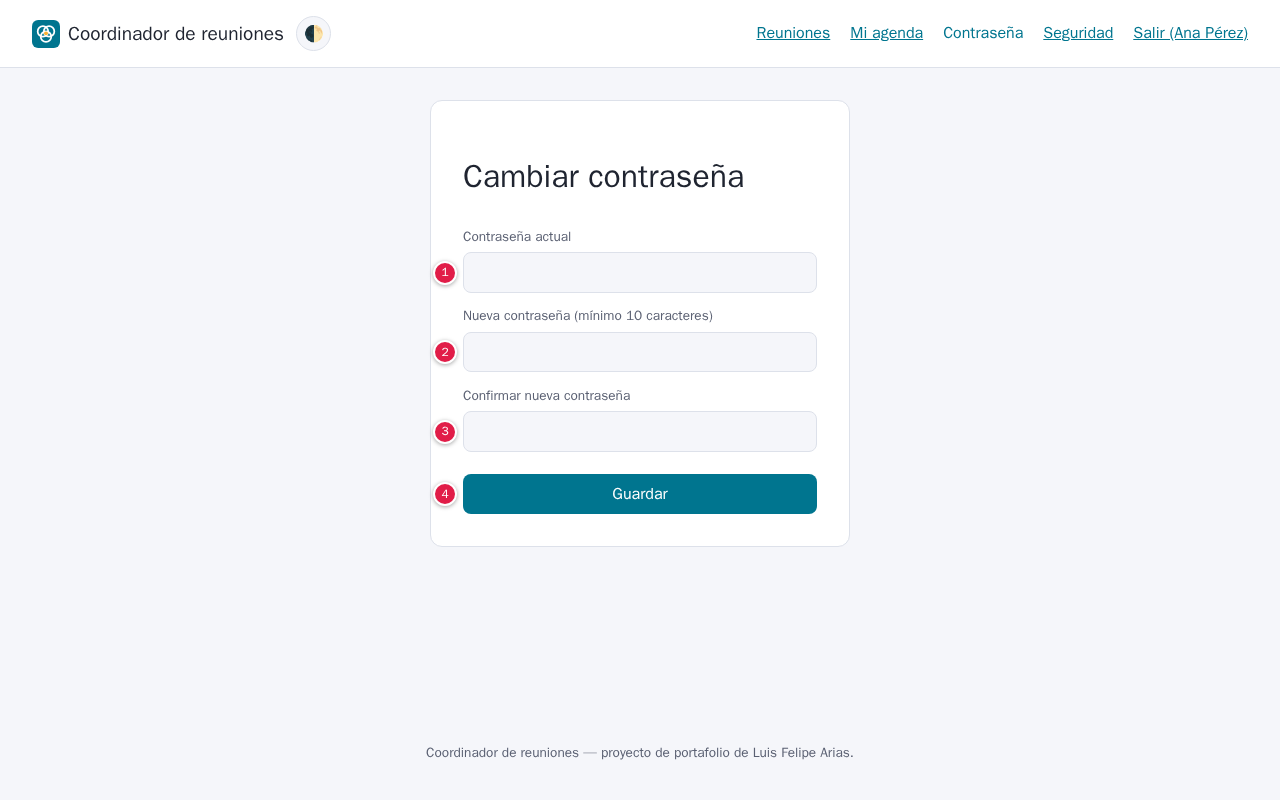
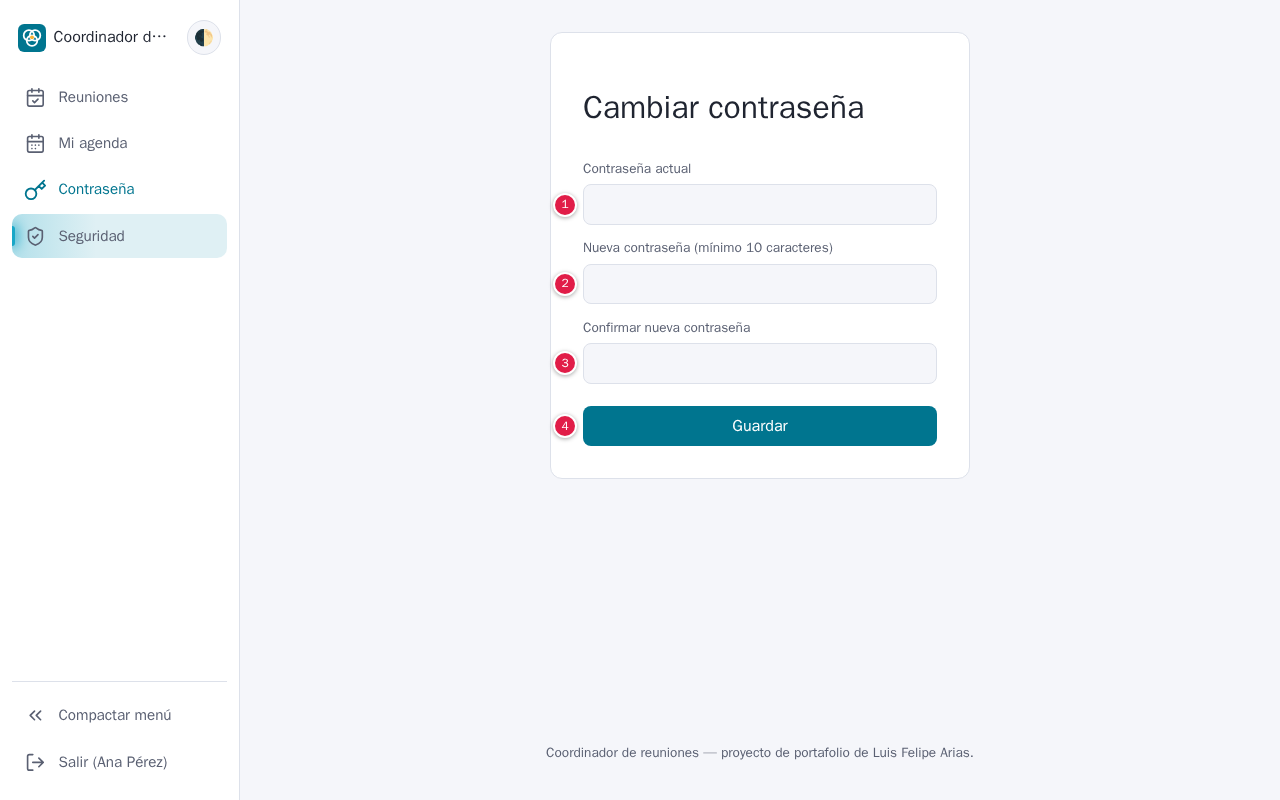
docs(manual): capturas nuevas de producción, casillas del código, menú, instalación, sin conexión y 404 [skip ci]

diff --git a/docs/MANUAL.md b/docs/MANUAL.md
@@ -115,7 +115,11 @@ cuenta) eliges cómo recibirlo:
 | **App autenticadora** (recomendado) | Escaneas un código QR con Google Authenticator, Microsoft Authenticator u otra app; desde ese momento la app muestra un código nuevo cada 30 segundos, incluso sin internet. Si no puedes escanear, escribe la clave que aparece bajo el QR. |
 | **Código por correo** | Cada vez que ingresas te llega un código de 6 dígitos que vence en 10 minutos y sirve una sola vez. |
 
-Confirma el método escribiendo el primer código. Desde **Seguridad** (menú superior) puedes
+Cada dígito ocupa su propia casilla. Bajo las casillas, un círculo muestra cuándo tu app muestra un
+código nuevo (o cuánto le queda al código del correo). El candado de arriba se abre cuando el código
+es correcto; si no lo es, tiembla y el aviso explica qué pasó.
+
+Confirma el método escribiendo el primer código. Desde **Seguridad** (menú lateral) puedes
 **agregar el método que no elegiste** y escoger cuál se pide **por defecto**; tener los dos te
 permite entrar aunque no tengas el teléfono a mano. En la app autenticadora la cuenta aparece
 como **Coordinador de reuniones**.
@@ -213,6 +217,25 @@ sugerencias o **cancelar** la reunión.
 
 ### 4.6 Preguntas frecuentes
 
+**¿Cómo uso el menú?** En el computador, **Compactar menú** (abajo a la izquierda) deja solo los
+íconos y **Extender menú** lo vuelve a abrir; al pasar el ratón por un ícono aparece su nombre. La
+aplicación recuerda tu elección en ese equipo. En el teléfono el menú es una barra abajo: **Más**
+abre Contraseña, Seguridad y Salir.
+
+**¿Qué muestra la franja de Mis reuniones?** Cuántas reuniones hay en total, con sugerencias,
+confirmadas y sin huecos, y una barra con la proporción de cada estado.
+
+**¿Cómo instalo la app?** En Chrome o Edge (computador o Android) usa la opción **Instalar** del
+navegador (ícono en la barra de direcciones o menú → *Instalar Coordinador de reuniones*). En
+iPhone abre la página en Safari y elige **Compartir → Agregar a inicio**. La app instalada abre en
+su propia ventana y se actualiza sola.
+
+**¿Qué significa "Sin conexión"?** Tu equipo perdió internet. La pantalla lo comprueba cada 8
+segundos y vuelve sola cuando hay red; también puedes pulsar **Reintentar ahora**.
+
+**¿Qué significa "No hay hueco para esta página"?** La dirección escrita no existe. Usa **Ver
+reuniones** o **Volver al inicio**; si tenías la sesión abierta, sigue abierta.
+
 **¿Por qué el motor no encontró huecos?** No hay una franja de la duración pedida en la que todos
 estén dentro de su horario laboral y sin bloques ocupados. Amplía el rango de fechas o reduce la
 duración.
@@ -223,7 +246,7 @@ hace más atractiva cuando hay varias opciones.
 **¿Los participantes tienen que aceptar en la aplicación?** No. Reciben las sugerencias por correo
 y el organizador confirma el horario desde la aplicación.
 
-**¿Qué significa la pantalla "Estamos en mantenimiento"?** El servicio o su base de datos no están respondiendo en ese momento. No se perdió nada: tus reuniones y tu agenda siguen guardados, y ninguna acción quedó a medias (si no viste la confirmación, no se guardó). La pantalla se actualiza sola y vuelve a la normalidad apenas el servicio responda; también puedes reintentar más tarde.
+**¿Qué significa la pantalla "Estamos en mantenimiento"?** El servicio o su base de datos no están respondiendo en ese momento. No se perdió nada: tus reuniones y tu agenda siguen guardados (la pantalla muestra una cuenta regresiva y lo comprueba cada 15 segundos), y ninguna acción quedó a medias (si no viste la confirmación, no se guardó). La pantalla se actualiza sola y vuelve a la normalidad apenas el servicio responda; también puedes reintentar más tarde.
 
 ## 5. Seguridad: tu información protegida
 
